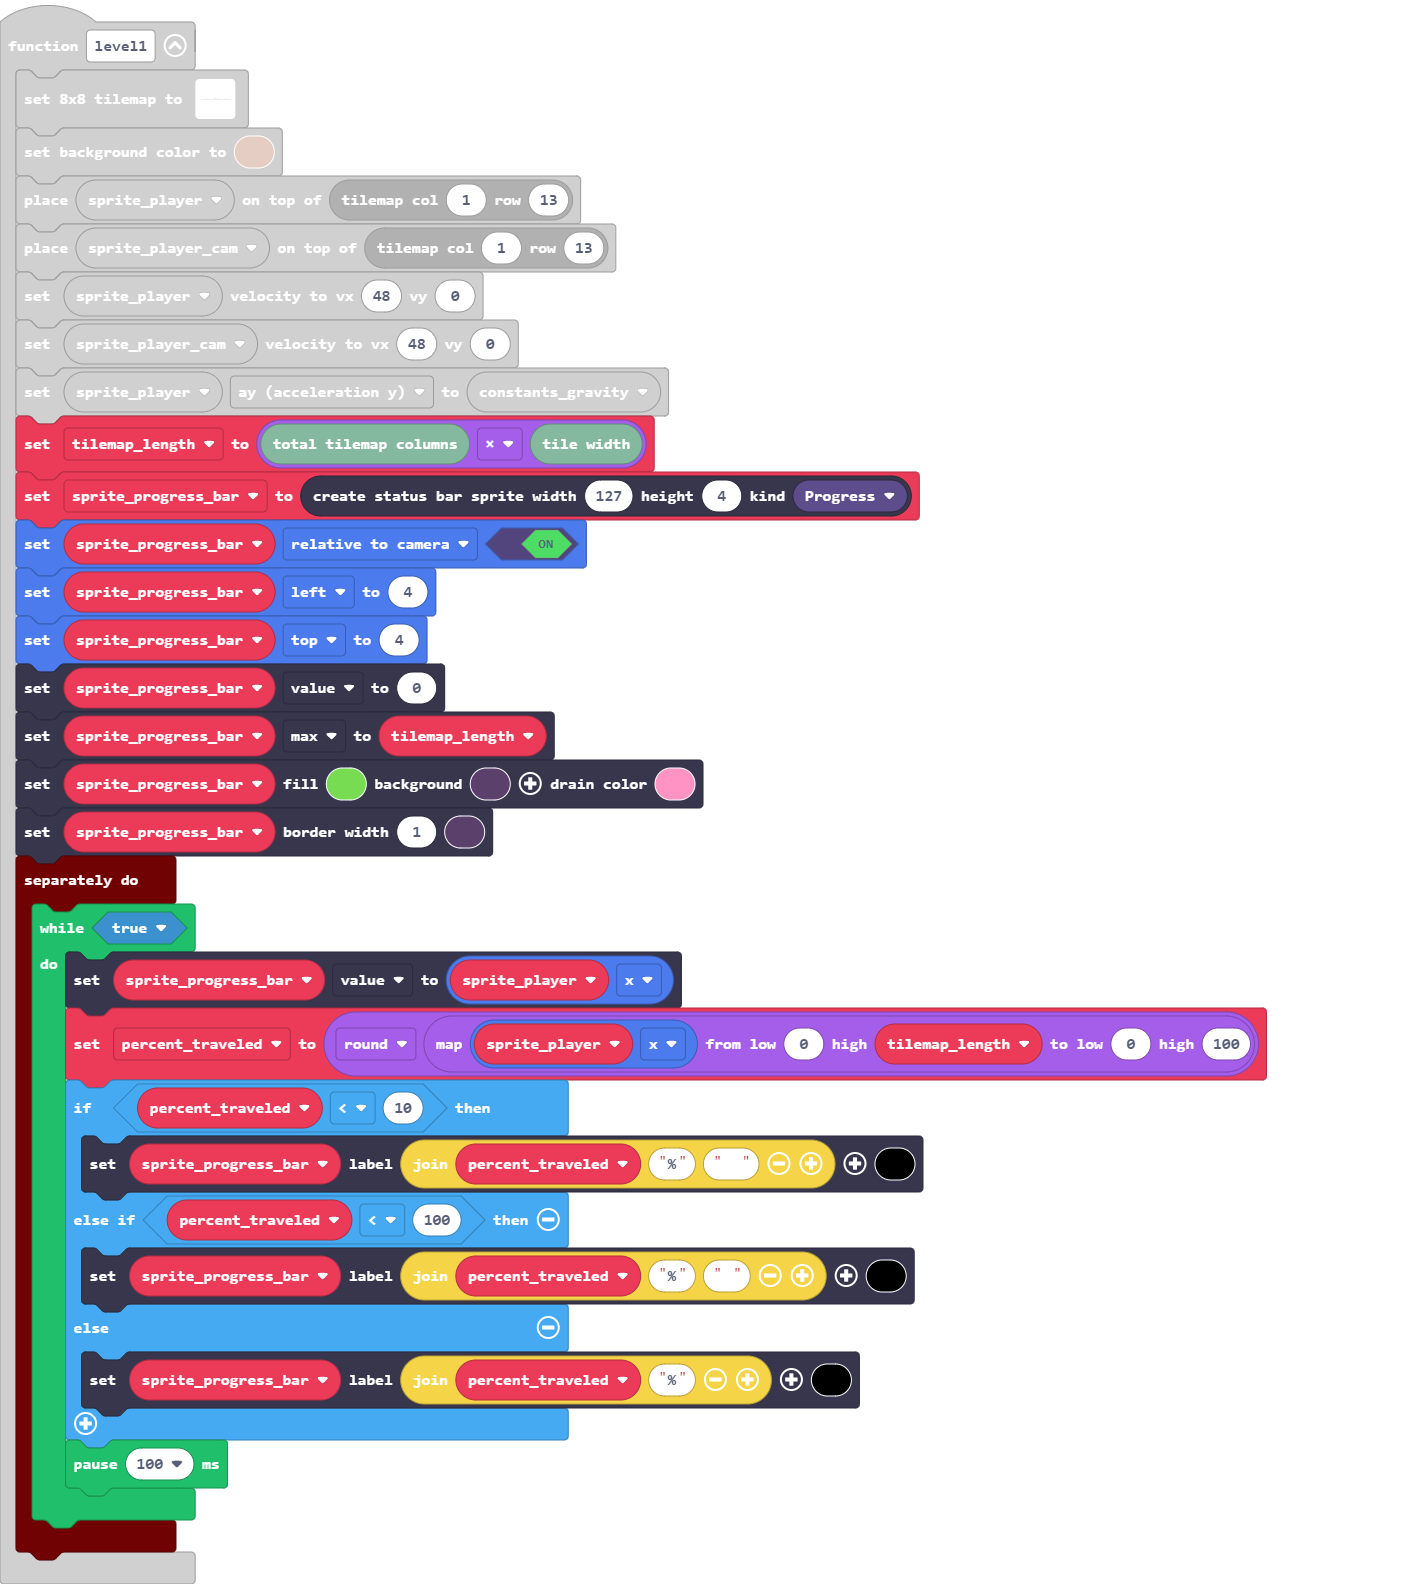
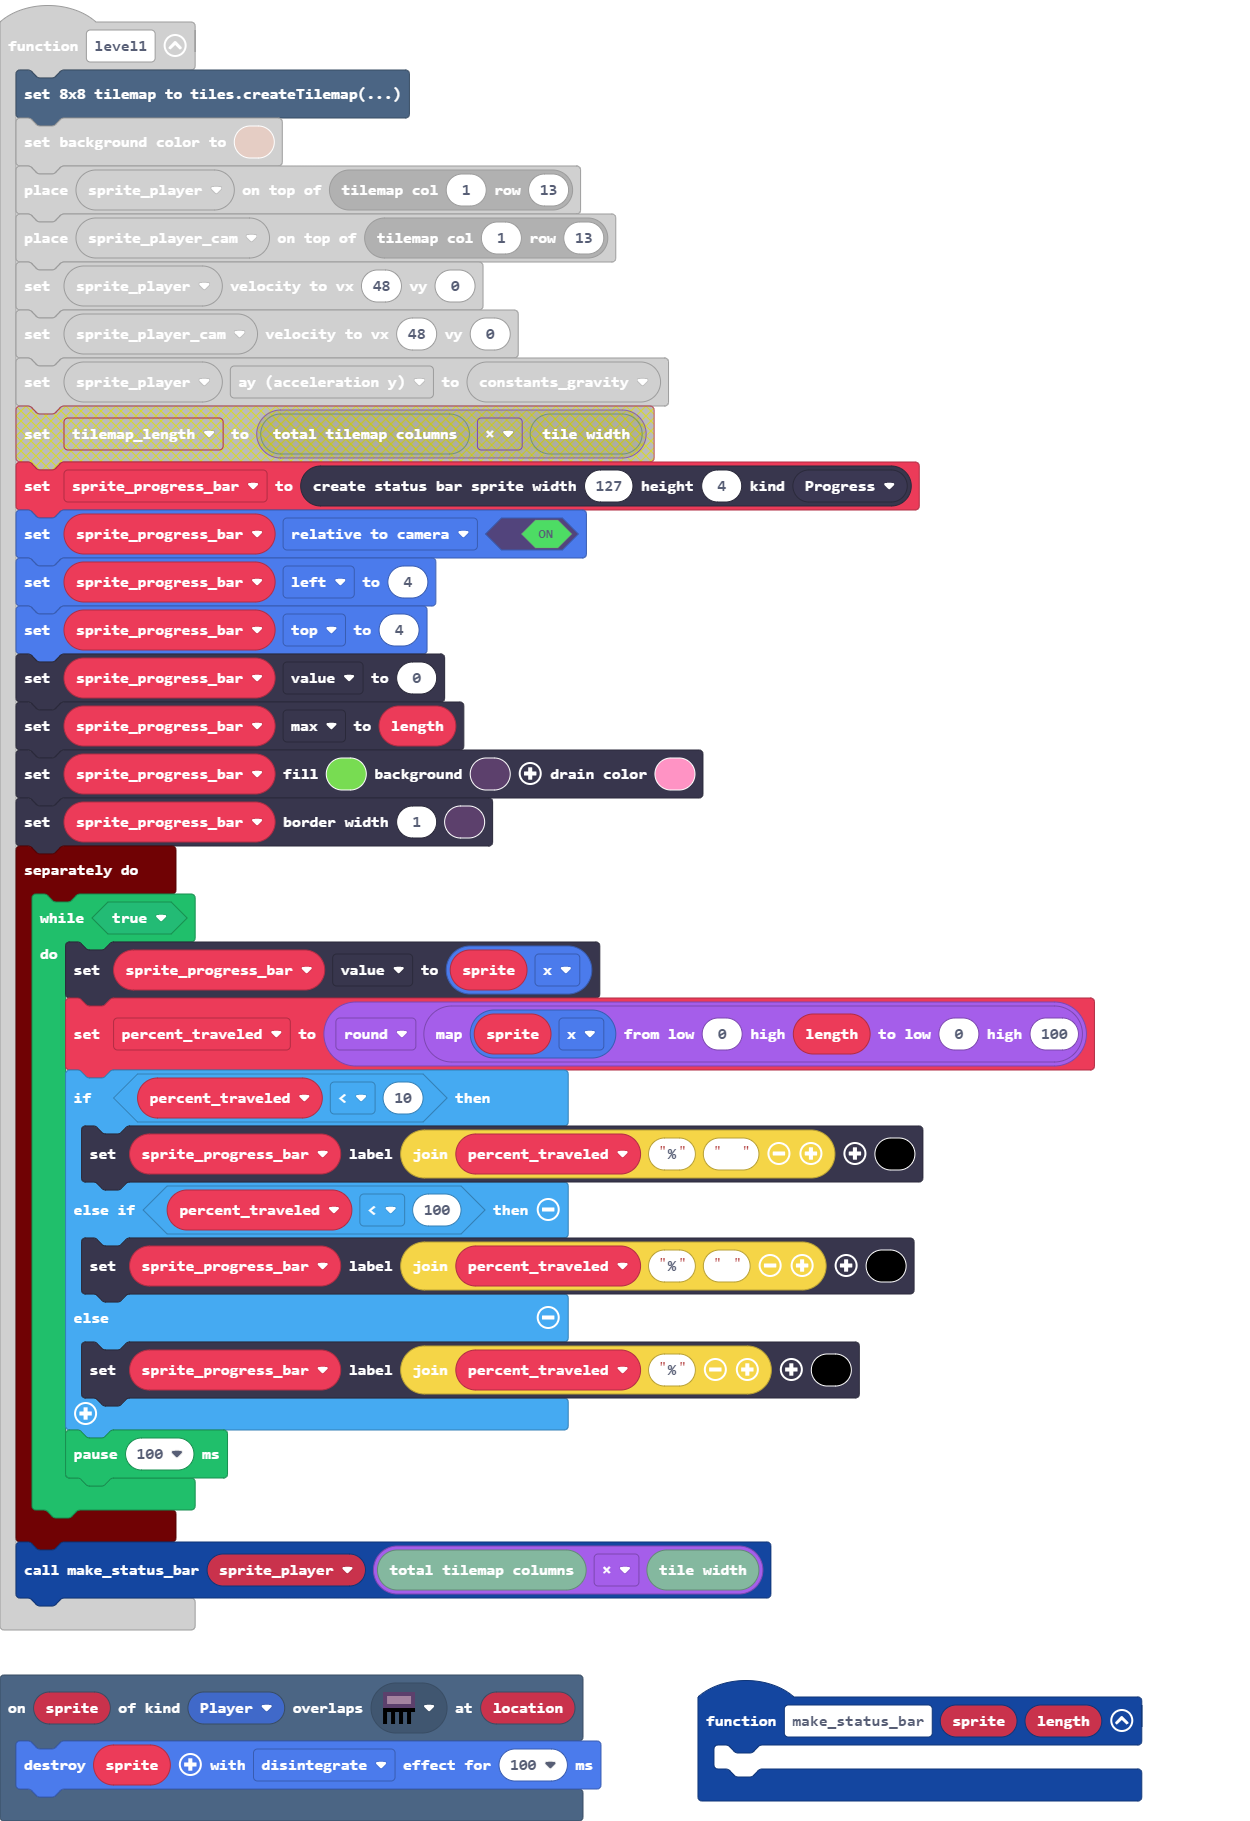
Increase map length except map disappeared

diff --git a/main.ts b/main.ts
@@ -13,52 +13,30 @@ scene.onHitWall(SpriteKind.Player, function (sprite, location) {
     }
 })
 function level1 () {
[1 lines of base64/hex data omitted]
-        ........................................................................................................................................................................................................
-        ........................................................................................................................................................................................................
-        ........................................................................................................................................................................................................
-        ........................................................................................................................................................................................................
-        ..................................................................................................................................2.2...................................................................
-        .................................................................................................................................2...2...............................................................222
-        ......................................................................................................222.......................2.....2........................................................2.2......
-        ...................................................................................................222...................................................................................2.2....2.......
-        ................................................................................................222...........................2.........2..........................................2.2....2.............
-        .............................................................................................222........2.........2..........2...........2...................................222....2...................
-        ......................................................222.................................222...........2222...222..........2.............2............................222..............................
-        .................................................222.......222.........................222..............2222...............2...............2.....................222....................................
-        ............................................222.................222.................222.................2...222...........2.................2..............222..........................................
-        .......................................222...........................222.........222....................2......222.......2...................2.......222................................................
-        2222222222222222...22222222...222222222..............................22222222222222222222222222222222222222222222222222222...................22222222...222...222...222...222...222.....................
-        `, [myTiles.transparency8,myTiles.tile1,myTiles.tile2,myTiles.tile3,myTiles.tile4,myTiles.tile5], TileScale.Eight))
[1 lines of base64/hex data omitted]
+        ..............................................................22.......................................................................................................................................................................................................................................................................................2.......2.............2.....................................................................
+        ..........................................................2222.........................................................................................................................................................................................................................................................................................2.......2.............2.....................................................................
+        .......................................................222.............................................................................................................................................................................................................................................................................................2.......2.............2.....................................................................
+        ...................................................2222.......................................................................................................................................................................................................................................222............................................................................2.....................................................................
+        ...............................................2222.......................................................................................................................................................................................................................................222.....222........................................................................2.....................................................................
+        ............................................222...........................................................................................................................................................................................................................222.........222.............222....................................................................2................................................................22222
+        ........................................2222............................................................................................222...........................................................................................................................222.........222.....................222................................................................2..........................................................2.2........
+        2222222222222222222222222222222222222222.............................................................................................222..........................................................................................................................222.............................................................................................................................................................2.2....2.........
+        ..................................................................................................................................222.......................................222..2..222.......................................................................222............222..............................222...........................................22.2.22.........................................................2.2....2...............
+        ...............................................................................................................................222........2.........2......................2...........2..................................................................222.....................222.....................222....2.......................................22....2....22................................................222....2.....................
+        ........................................................................................222.................................222...........2222...222..................................................................................................222.............................222.............222.........2.................................22.2.......2.......22.......................................222................................
+        ...................................................................................222.......222.........................222..............2222...........................2...............2........................................................222.....................................222.....222..............2.............................22....2.......2..........22..............................222......................................
+        ..............................................................................222.................222.................222.................2...222.......................2.................2...................................................222.............................................222...................2.........................22.......2.......2...............22...................222............................................
+        .........................................................................222...........................222.........222....................2......222...................2...................2..............................................222........................................................................2.....................22..........2.......2.............2....22..........222..................................................
+        22222222222222222222222222222222222222222222222222...22222222...222222222.................................22222222222222222222222222222222222222222222222222222222222222...................22222222222222222222222222222222222222222222...............................................................................222222222222222222222222222222222222222222222222222222222222222222222222.....................................................
+        `, [myTiles.transparency8,myTiles.tile1,myTiles.tile6,myTiles.tile2,myTiles.tile3,myTiles.tile4,myTiles.tile5], TileScale.Eight))
     scene.setBackgroundColor(13)
     tiles.placeOnTile(sprite_player, tiles.getTileLocation(1, 13))
     tiles.placeOnTile(sprite_player_cam, tiles.getTileLocation(1, 13))
     sprite_player.setVelocity(48, 0)
     sprite_player_cam.setVelocity(48, 0)
     sprite_player.ay = constants_gravity
-    tilemap_length = tiles.tilemapColumns() * tiles.tileWidth()
-    sprite_progress_bar = statusbars.create(127, 4, StatusBarKind.Progress)
-    sprite_progress_bar.setFlag(SpriteFlag.RelativeToCamera, true)
-    sprite_progress_bar.left = 4
-    sprite_progress_bar.top = 4
-    sprite_progress_bar.value = 0
-    sprite_progress_bar.max = tilemap_length
-    sprite_progress_bar.setColor(7, 12)
-    sprite_progress_bar.setBarBorder(1, 12)
-    timer.background(function () {
-        while (true) {
-            sprite_progress_bar.value = sprite_player.x
-            percent_traveled = Math.round(Math.map(sprite_player.x, 0, tilemap_length, 0, 100))
-            if (percent_traveled < 10) {
-                sprite_progress_bar.setLabel("" + percent_traveled + "%" + "  ", 15)
-            } else if (percent_traveled < 100) {
-                sprite_progress_bar.setLabel("" + percent_traveled + "%" + " ", 15)
-            } else {
-                sprite_progress_bar.setLabel("" + percent_traveled + "%", 15)
-            }
-            pause(100)
-        }
-    })
+    make_status_bar(sprite_player, tiles.tilemapColumns() * tiles.tileWidth())
 }
 scene.onOverlapTile(SpriteKind.Player, myTiles.tile4, function (sprite, location) {
     win()
@@ -71,6 +49,30 @@ function win () {
     won = true
     timer.after(2000, function () {
         game.over(true)
+    })
+}
+function make_status_bar (sprite: Sprite, length: number) {
+    sprite_progress_bar = statusbars.create(127, 4, StatusBarKind.Progress)
+    sprite_progress_bar.setFlag(SpriteFlag.RelativeToCamera, true)
+    sprite_progress_bar.left = 4
+    sprite_progress_bar.top = 4
+    sprite_progress_bar.value = 0
+    sprite_progress_bar.max = length
+    sprite_progress_bar.setColor(7, 12)
+    sprite_progress_bar.setBarBorder(1, 12)
+    timer.background(function () {
+        while (true) {
+            sprite_progress_bar.value = sprite.x
+            percent_traveled = Math.round(Math.map(sprite.x, 0, length, 0, 100))
+            if (percent_traveled < 10) {
+                sprite_progress_bar.setLabel("" + percent_traveled + "%" + "  ", 15)
+            } else if (percent_traveled < 100) {
+                sprite_progress_bar.setLabel("" + percent_traveled + "%" + " ", 15)
+            } else {
+                sprite_progress_bar.setLabel("" + percent_traveled + "%", 15)
+            }
+            pause(100)
+        }
     })
 }
 function make_player () {
@@ -95,6 +97,9 @@ function make_player () {
     sprite_player_cam.setFlag(SpriteFlag.Ghost, true)
     scene.cameraFollowSprite(sprite_player_cam)
 }
+scene.onOverlapTile(SpriteKind.Player, myTiles.tile6, function (sprite, location) {
+    sprite.destroy(effects.disintegrate, 100)
+})
 function jump (sprite: Sprite, gravity: number, tiles2: number) {
     if (jumps < constants_max_jumps) {
         sprite.vy = 0 - Math.sqrt(2 * (gravity * (tiles2 * tiles.tileWidth())))
@@ -130,7 +135,6 @@ sprites.onDestroyed(SpriteKind.Player, function (sprite) {
 })
 let percent_traveled = 0
 let sprite_progress_bar: StatusBarSprite = null
-let tilemap_length = 0
 let sprite_player_cam: Sprite = null
 let sprite_player: Sprite = null
 let won = false

diff --git a/tilemap.g.ts b/tilemap.g.ts
@@ -13,6 +13,8 @@ namespace myTiles {
     //% fixedInstance jres blockIdentity=images._tile
     export const tile5 = image.ofBuffer(hex``);
     //% fixedInstance jres blockIdentity=images._tile
+    export const tile6 = image.ofBuffer(hex``);
+    //% fixedInstance jres blockIdentity=images._tile
     export const transparency16 = image.ofBuffer(hex``);
 
 }
